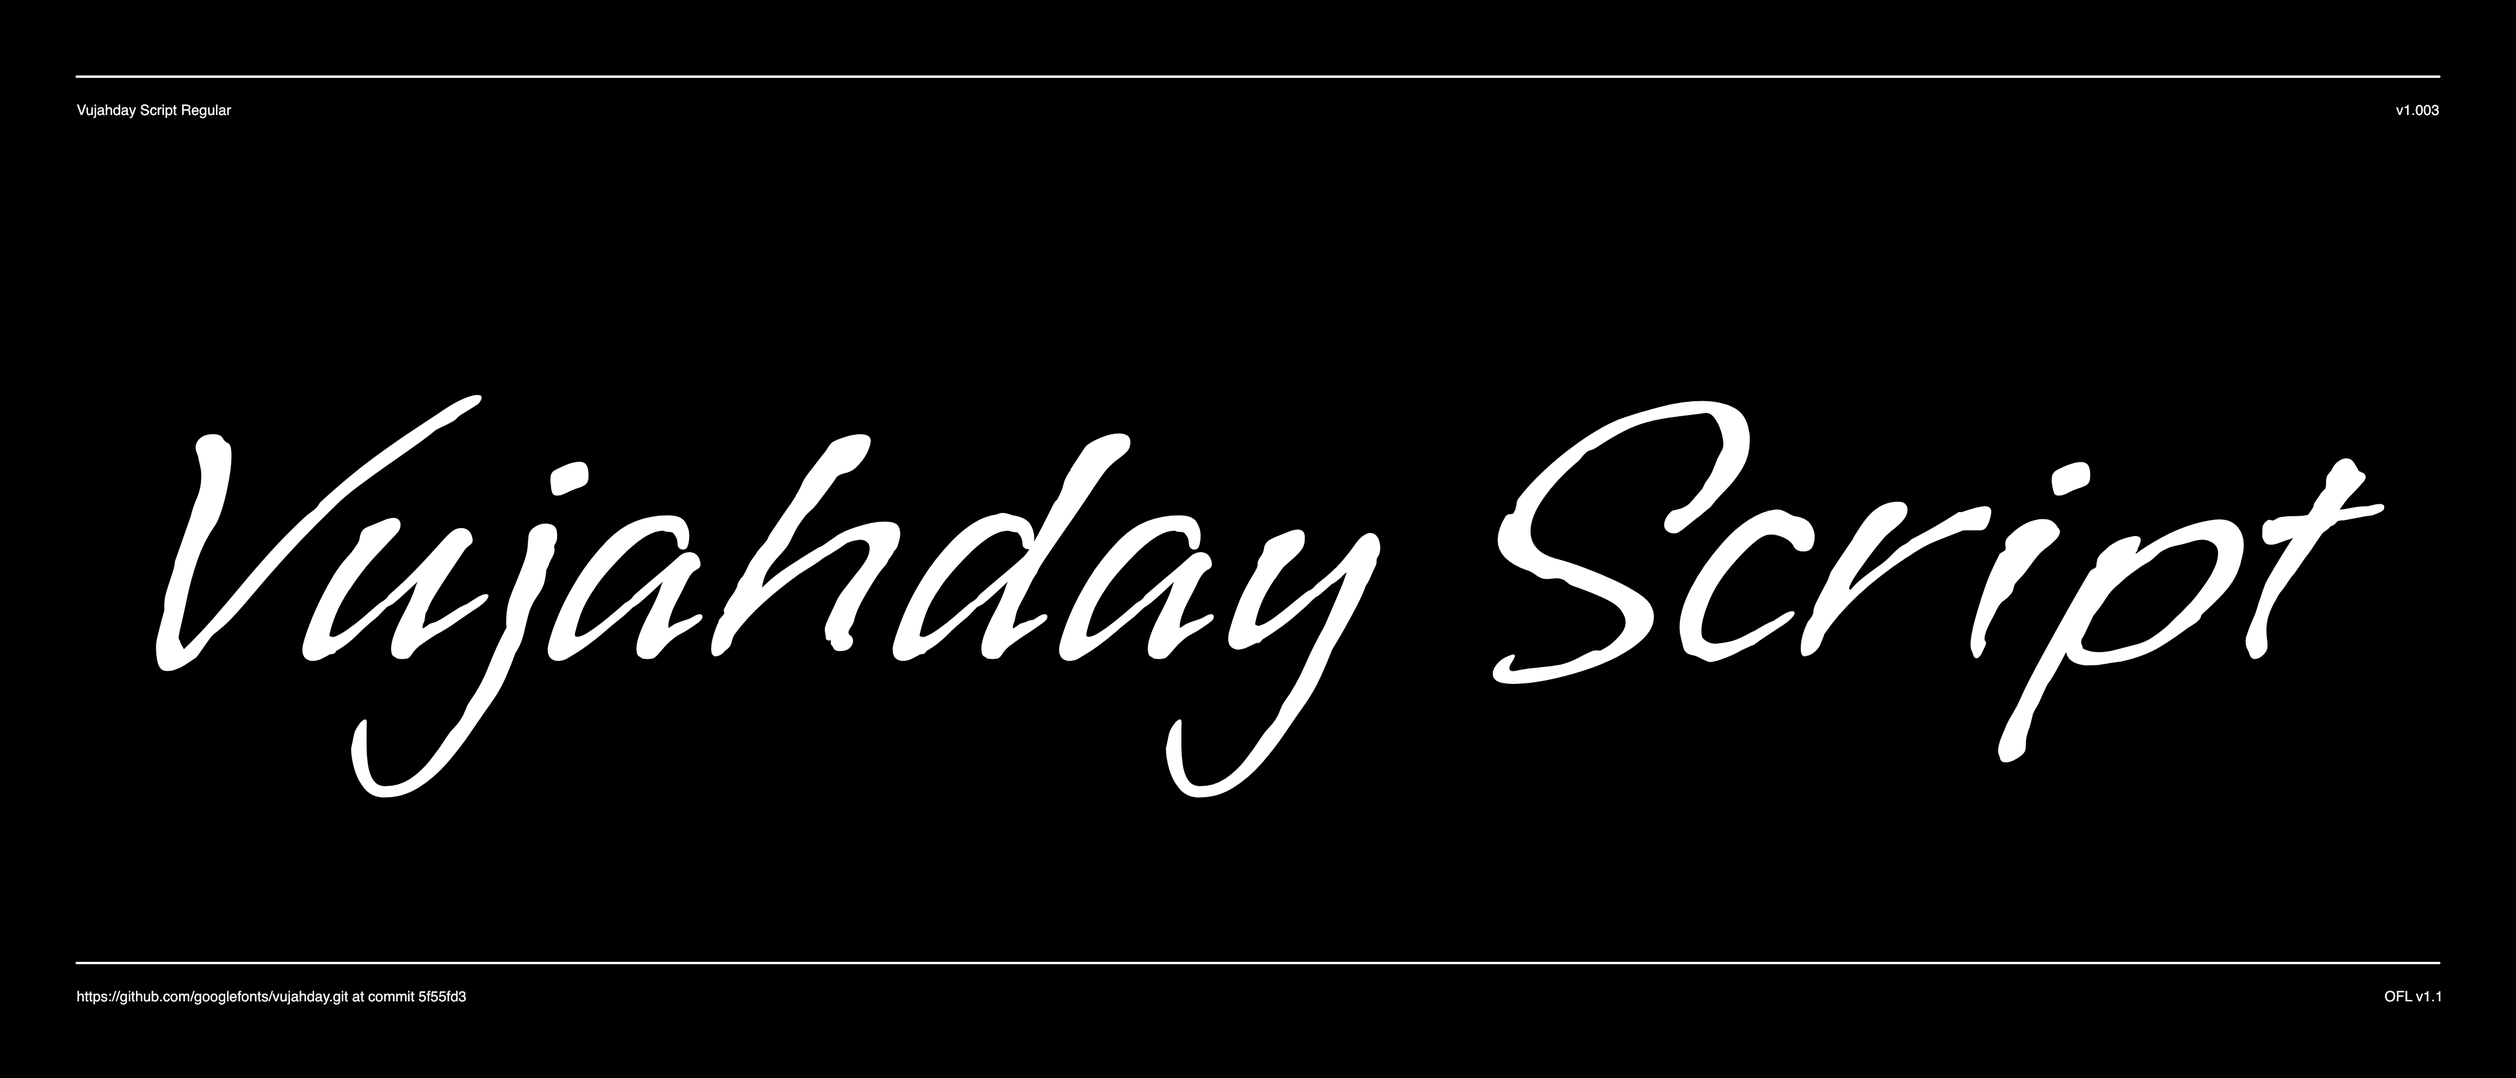
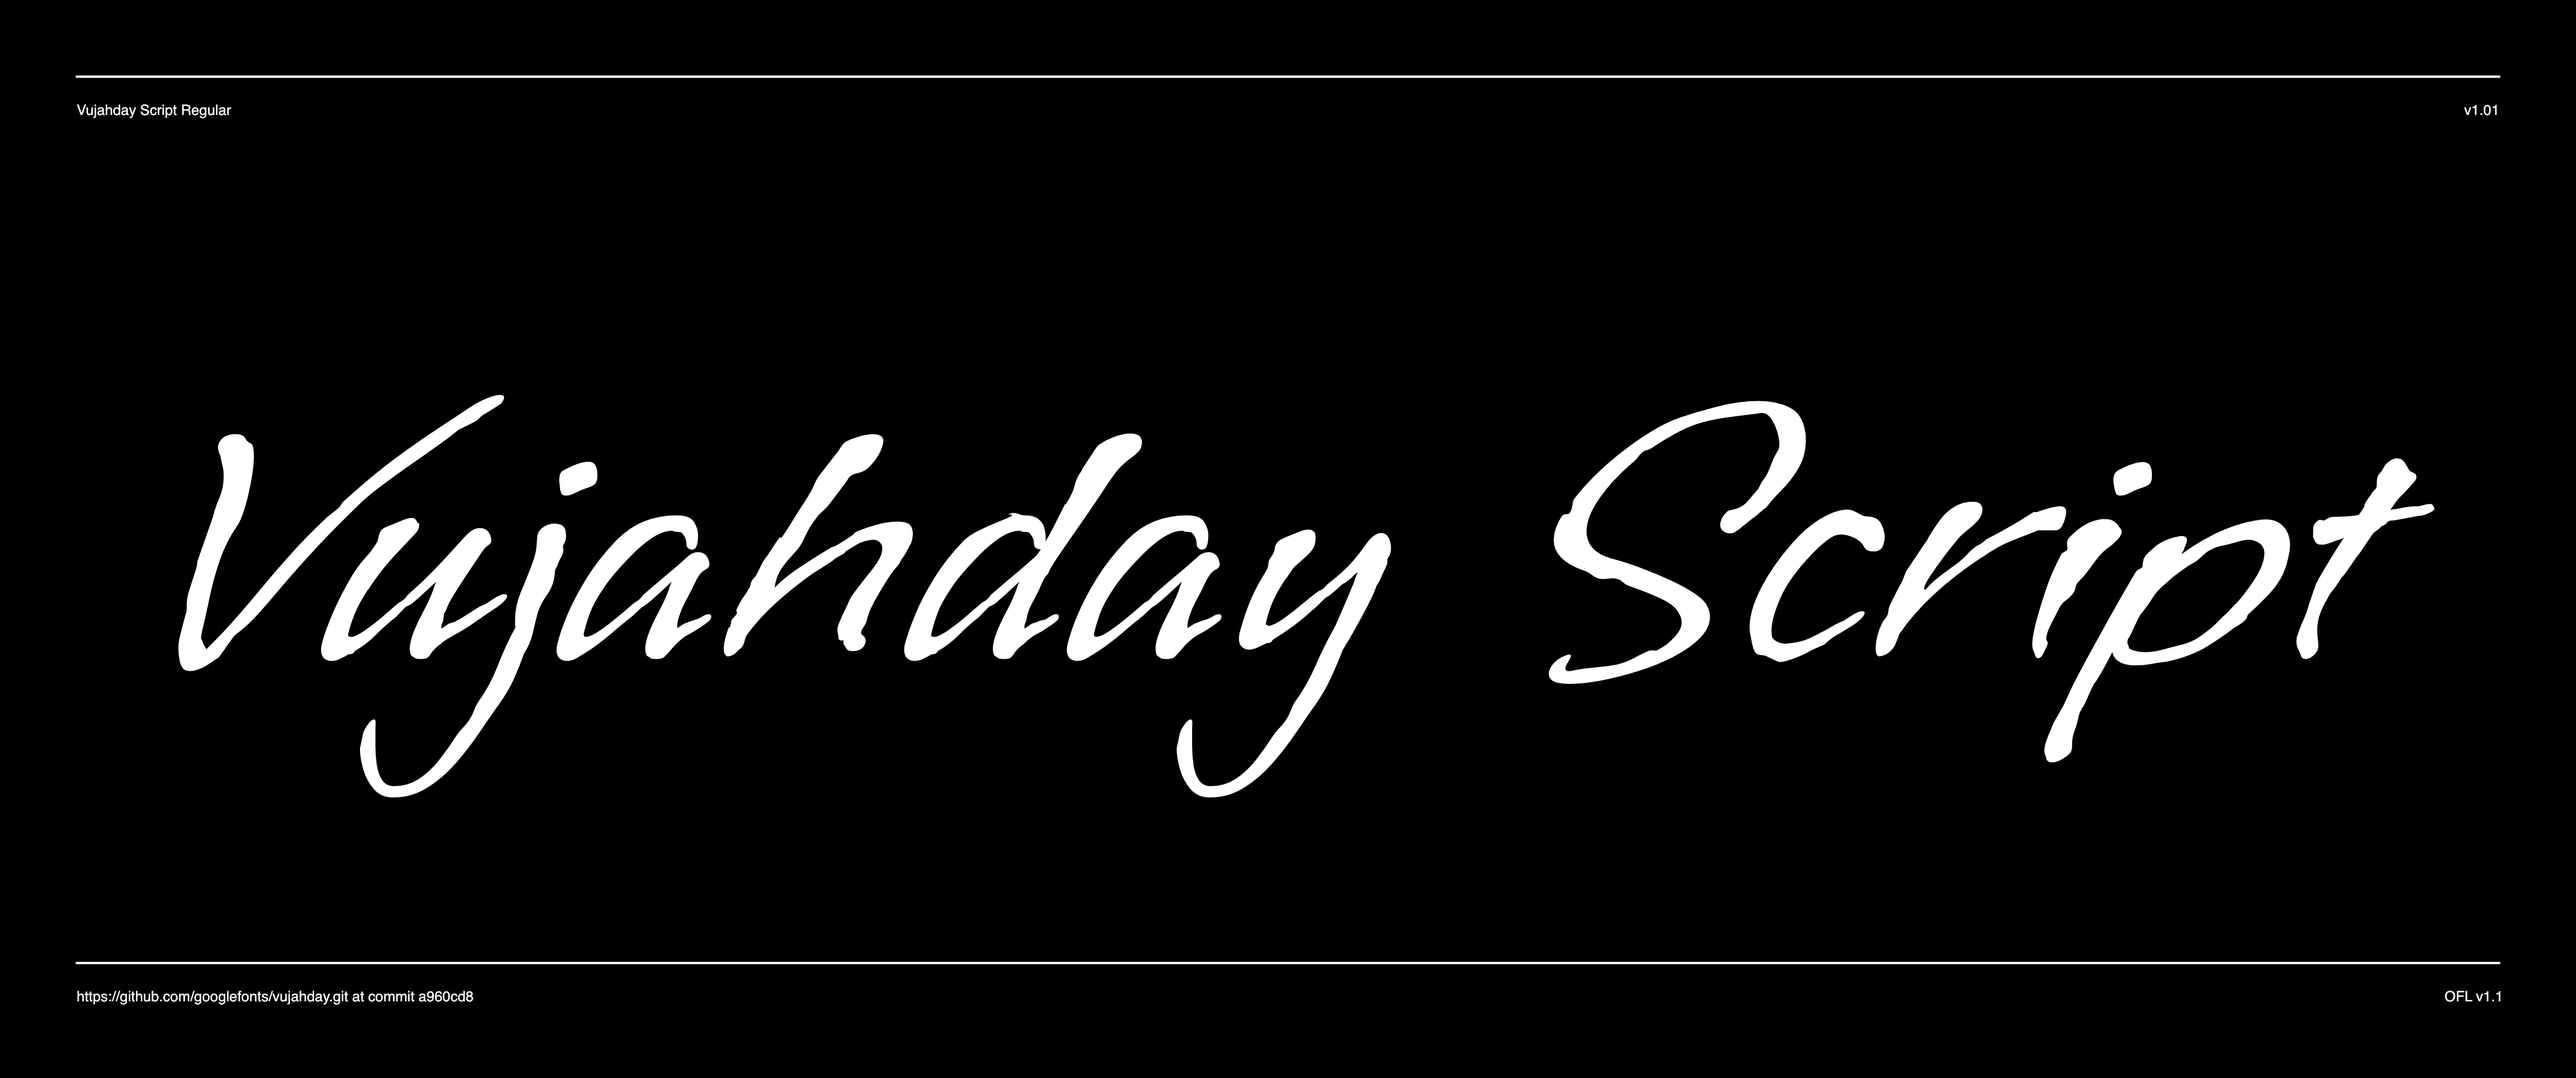
readme + sample image updated

diff --git a/documentation/image1.py b/documentation/image1.py
@@ -15,14 +15,14 @@ import sys
 import argparse
 
 # Constants, these are the main "settings" for the image
-WIDTH, HEIGHT, MARGIN, FRAMES = 4200, 1800, 128, 1
+WIDTH, HEIGHT, MARGIN, FRAMES = 4300, 1800, 128, 1
 FONT_PATH = "../fonts/ttf/VujahdayScript-Regular.ttf"
 FONT_LICENSE = "OFL v1.1"
 AUXILIARY_FONT = "Helvetica"
 AUXILIARY_FONT_SIZE = 24
 BIG_TEXT = "Vujahday Script"
 BIG_TEXT_FONT_SIZE = 630
-BIG_TEXT_SIDE_MARGIN = MARGIN * 2
+BIG_TEXT_SIDE_MARGIN = MARGIN * 1.8
 BIG_TEXT_BOTTOM_MARGIN = MARGIN * 5.5
 GRID_VIEW = False # Change this to "True" for a grid overlay
 

diff --git a/README.md b/README.md
@@ -1,6 +1,6 @@
 # Vujahday Script
 
-Vujaday! That eerie feeling that nothing like this has ever happened before. This script font comes with both a plain and a script stylistic set. Its rough edge adds to the hand written feel. 
+Vujaday! That eerie feeling that nothing like this has ever happened before. This script font comes with both a plain and a script stylistic set. Its rough edge adds to the handwritten feel. 
 
 ![Sample Image](documentation/image1.png)
 
